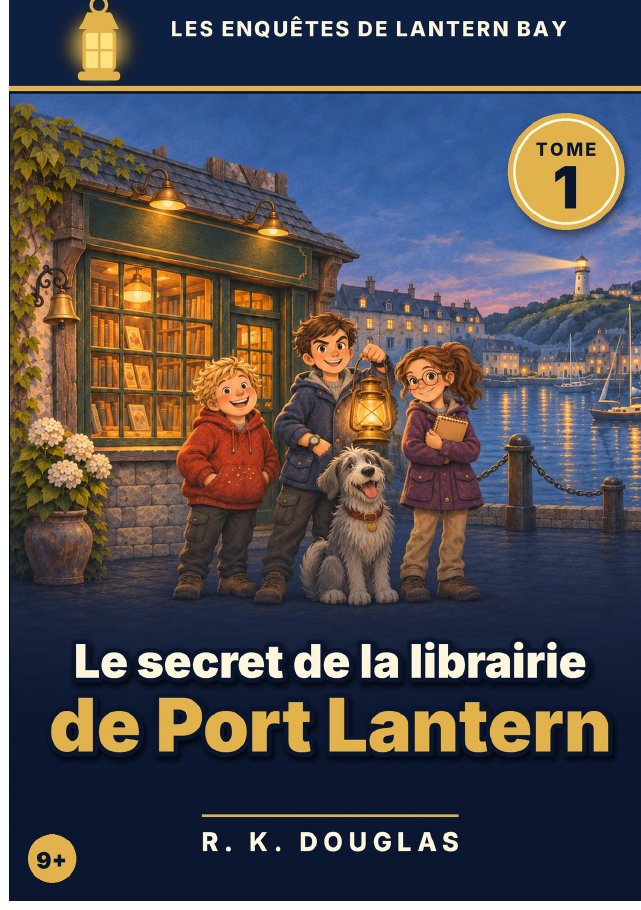
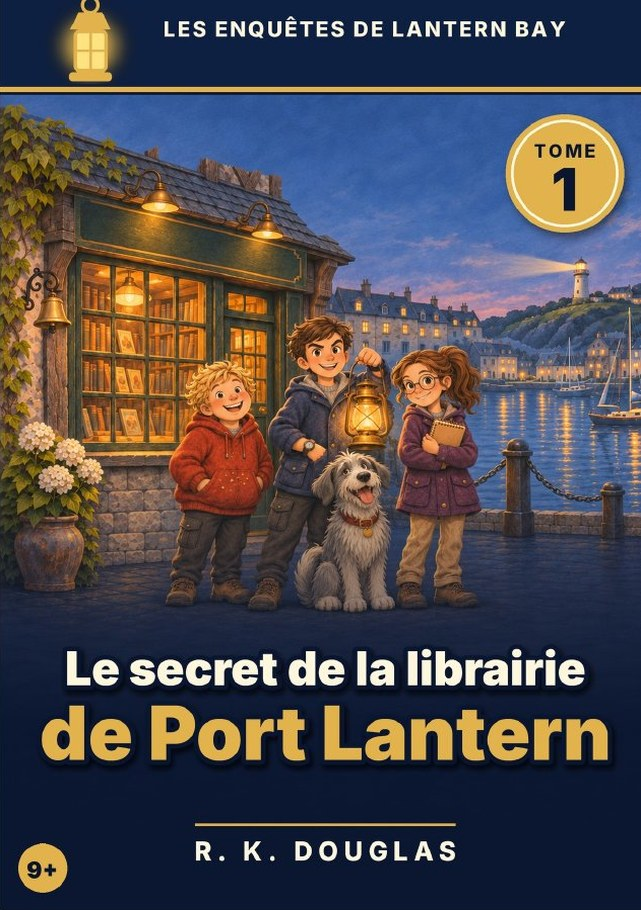
Mettre à jour la mise en page iPhone et la couverture Enquêtes tome 1

diff --git a/index.html b/index.html
@@ -50,9 +50,10 @@ nav a{text-decoration:none;padding:8px 0}nav a:hover{text-decoration:underline}
 .coll-head{display:flex;flex-wrap:wrap;align-items:flex-end;justify-content:space-between;gap:12px 24px;margin-bottom:28px}
 .coll-head p{margin:10px 0 0;color:var(--mute);max-width:40em}
 .age{font-family:Poppins,sans-serif;font-weight:700;font-size:15px;padding:8px 16px;border-radius:999px;color:#fff;white-space:nowrap}
-.books{display:grid;grid-template-columns:repeat(auto-fill,minmax(min(100%,300px),1fr));gap:24px}
-.book{display:grid;grid-template-columns:120px minmax(0,1fr);gap:18px;background:var(--paper);border:1px solid var(--line);border-radius:14px;padding:16px}
-.book img,.soon{width:120px;aspect-ratio:641/910;border-radius:6px;box-shadow:0 6px 16px rgba(0,0,0,.18);display:block;object-fit:cover}
+.books{display:grid;grid-template-columns:repeat(auto-fill,minmax(min(100%,380px),1fr));gap:24px}
+.book{display:grid;grid-template-columns:132px minmax(0,1fr);grid-template-areas:"c h" "c p" "c b";grid-template-rows:auto auto 1fr;column-gap:18px;align-items:start;background:var(--paper);border:1px solid var(--line);border-radius:14px;padding:16px}
+.book>img,.book>.soon{grid-area:c;align-self:start;width:132px;height:auto;aspect-ratio:641/910;border-radius:6px;box-shadow:0 6px 16px rgba(0,0,0,.18);display:block;object-fit:contain}
+.bh{grid-area:h}.book>p{grid-area:p}.book>.buy{grid-area:b;align-self:end}
 .soon{display:grid;place-items:center;text-align:center;padding:10px;font-size:13px;font-style:italic;color:var(--mute);background:repeating-linear-gradient(135deg,var(--bg) 0 8px,var(--paper) 8px 16px);border:1px dashed var(--line);box-shadow:none}
 .tome{font-family:Poppins,sans-serif;font-size:13px;color:var(--mute);margin-bottom:4px}
 .book p{margin:8px 0 12px;font-size:15.5px;line-height:1.5}
@@ -71,7 +72,16 @@ nav a{text-decoration:none;padding:8px 0}nav a:hover{text-decoration:underline}
 footer{border-top:1px solid var(--line);color:var(--mute);font-size:14px}
 footer .wrap{display:flex;flex-wrap:wrap;justify-content:space-between;gap:8px 24px}
 @media(max-width:760px){.hero .wrap,.duo{grid-template-columns:minmax(0,1fr)}.fig{order:-1;max-width:520px}}
-@media(max-width:420px){.book{grid-template-columns:96px minmax(0,1fr);gap:14px}.book img,.soon{width:96px}}
+@media(max-width:600px){
+ header{position:static}
+ header .wrap{padding:10px 16px}
+ nav{flex-wrap:nowrap;overflow-x:auto;width:100%;gap:18px;scrollbar-width:none}nav::-webkit-scrollbar{display:none}nav a{flex:none}
+ .book{grid-template-columns:110px minmax(0,1fr);grid-template-areas:"c h" "p p" "b b";grid-template-rows:auto;column-gap:16px}
+ .book>img,.book>.soon{width:110px}
+ .bh{align-self:center}
+ .book>p{margin-top:14px}
+ .coll-head{align-items:flex-start}
+}
 </style>
 </head>
 <body>
@@ -215,7 +225,7 @@ footer .wrap{display:flex;flex-wrap:wrap;justify-content:space-between;gap:8px 2
       : link
         ? `<a class="btn" href="${link}">Commander</a><span class="price">Envoi par La Poste</span>`
         : `<span class="btn" aria-disabled="true">Commander</span><span class="price">Vente en ligne bientôt</span>`;
-    return `<article class="book">${cover}<div><div class="tome">${b.n}</div><h3>${b.t}</h3><p>${b.r}</p><div class="buy">${buy}</div></div></article>`;
+    return `<article class="book">${cover}<div class="bh"><div class="tome">${b.n}</div><h3>${b.t}</h3></div><p>${b.r}</p><div class="buy">${buy}</div></article>`;
   };
   for (const k of Object.keys(books)) {
     document.getElementById("list-" + k).innerHTML = books[k].map(card).join("");
